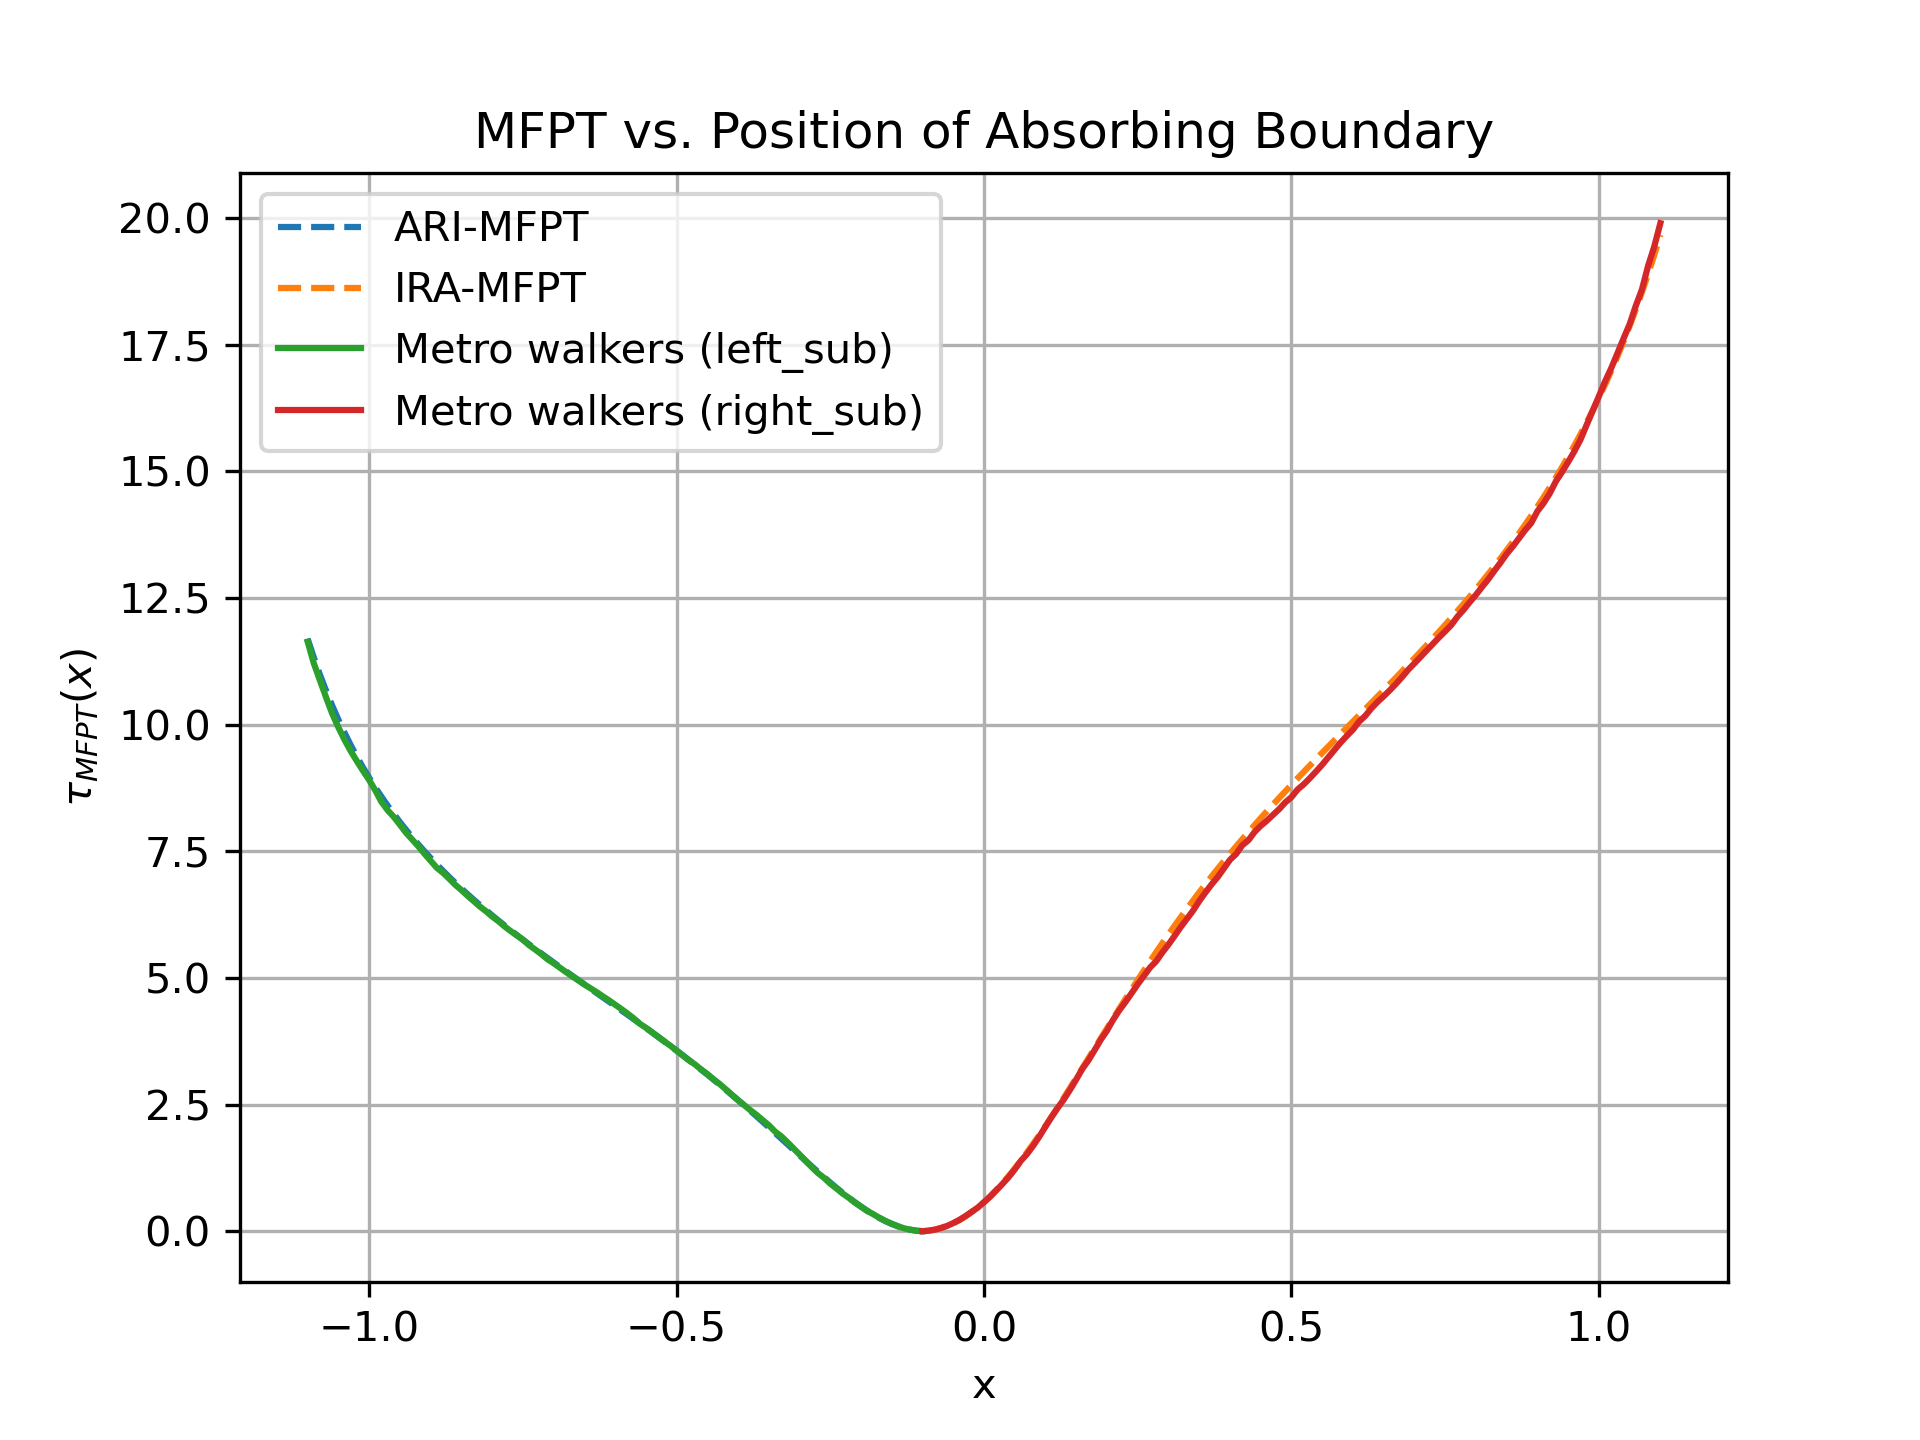
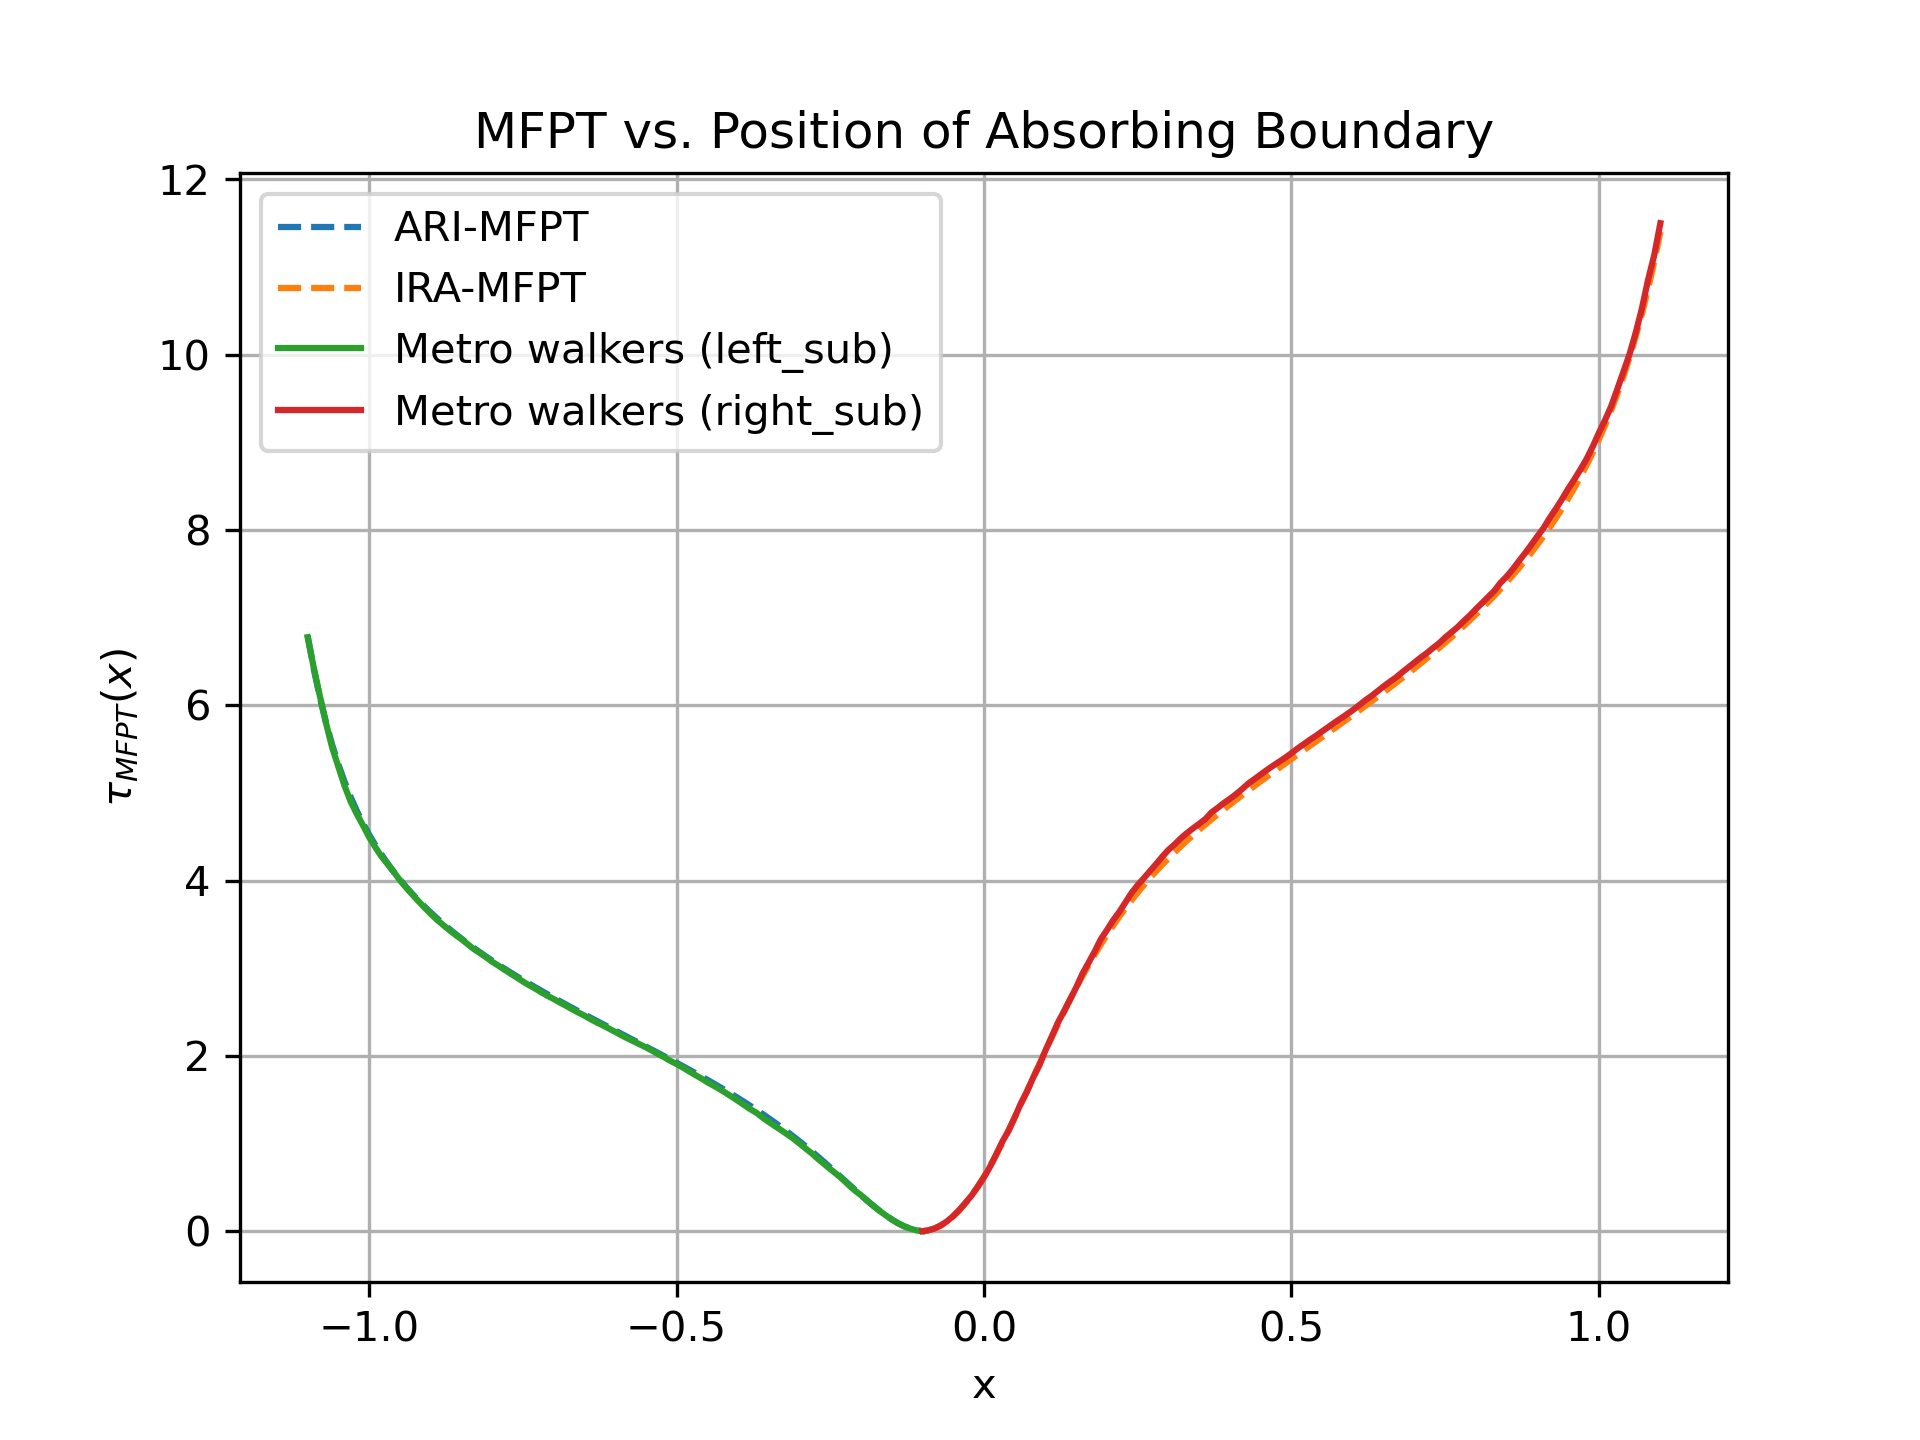
Regular top-start method simulation script, data, and graphs for random walk with high energy barrier

diff --git a/Top_start_method/Random_walk_Model/Regular_version/regular_top_start_reconst_simulation.py b/Top_start_method/Random_walk_Model/Regular_version/regular_top_start_reconst_simulation.py
@@ -7,8 +7,8 @@ from scipy.interpolate import interp1d, PchipInterpolator, CubicSpline
 
 # Define the double-well potential using two Gaussian functions
 # def double_gaussian_potential(x, A1=3, mu1=-1, sigma1=0.5, A2=4, mu2=1, sigma2=0.6):
-def double_gaussian_potential(x, A1=12, mu1=-1, sigma1=0.5, A2=10, mu2=1, sigma2=0.6):
-# def double_gaussian_potential(x, A1=30, mu1=-1, sigma1=0.5, A2=25, mu2=1, sigma2=0.6):
+# def double_gaussian_potential(x, A1=12, mu1=-1, sigma1=0.5, A2=10, mu2=1, sigma2=0.6):
+def double_gaussian_potential(x, A1=30, mu1=-1, sigma1=0.5, A2=25, mu2=1, sigma2=0.6):
     V1 = A1 * np.exp(-((x - mu1)**2) / (2 * sigma1**2))
     V2 = A2 * np.exp(-((x - mu2)**2) / (2 * sigma2**2))
     return -(V1 + V2)
